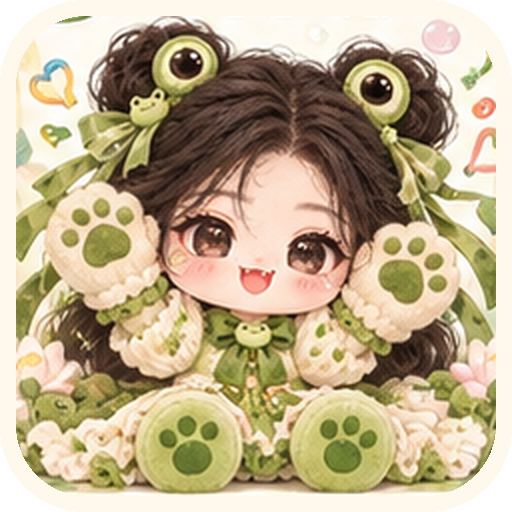
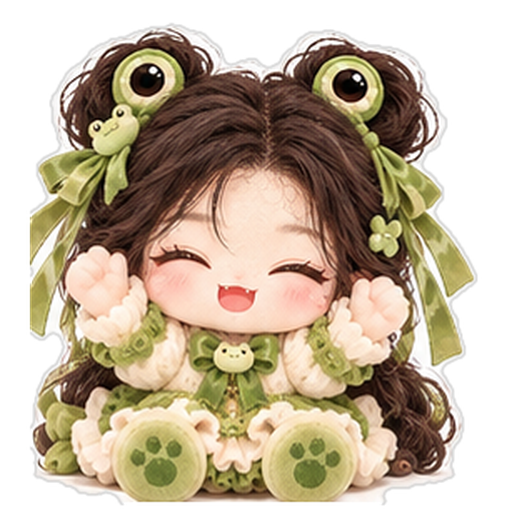
히든깨굴·히든여니 조합 인형 30종을 흰 배경 그림으로 교체 (인형만 오려 냄)
Claude-Session: https://claude.ai/code/session_01V3xUegeneke7NXjHkEDUgh

diff --git a/claw/index.html b/claw/index.html
@@ -2376,7 +2376,7 @@ const easeBack = t => { const c1 = 1.9, c3 = c1 + 1; return 1 + c3 * (t - 1) ** 
 /* ══════════ 새 버전 자동 반영 ══════════ */
 // 휴대폰 브라우저가 예전 페이지를 기억하고 있으면 고친 내용이 안 보여요.
 // 올릴 때마다 version.txt와 APP_VERSION을 같이 바꾸면, 예전 페이지는 새 버전을 알아채고 한 번 새로고침해요.
-const APP_VERSION = '20261024-1543';
+const APP_VERSION = '20261024-1549';
 async function checkVersion() {
   try {
     const r = await fetch('version.txt?t=' + Date.now(), { cache: 'no-store' });

diff --git a/claw/README.md b/claw/README.md
@@ -55,7 +55,7 @@
 
 - 히든햇살 15종(s01~s15), 초희귀고란 10종(r01~r10), 히든만두 10종(m01~m10), 히든깨굴 15종(c01~c15), 히든여니 15종(y01~y15).
 - 레시피는 각 시리즈 그림에 적힌 그대로예요. 성공 60%, 히든비노가 재료인 조합(상투 공주·장미와 상투)은 45%.
-- 그림은 배경이 있는 카드라서, 이름표·번호를 지우고 그림 부분만 둥근 카드로 잘라 썼어요(`fusion/<id>.png`).
+- 히든햇살·초희귀고란·히든만두 그림은 배경이 있는 카드라서 그림 부분만 둥근 카드로 잘라 썼고, 히든깨굴·히든여니는 흰 배경 버전으로 인형만 오려 썼어요(`fusion/<id>.png`).
 
 ### 히든 인형 '히든여니'
 
